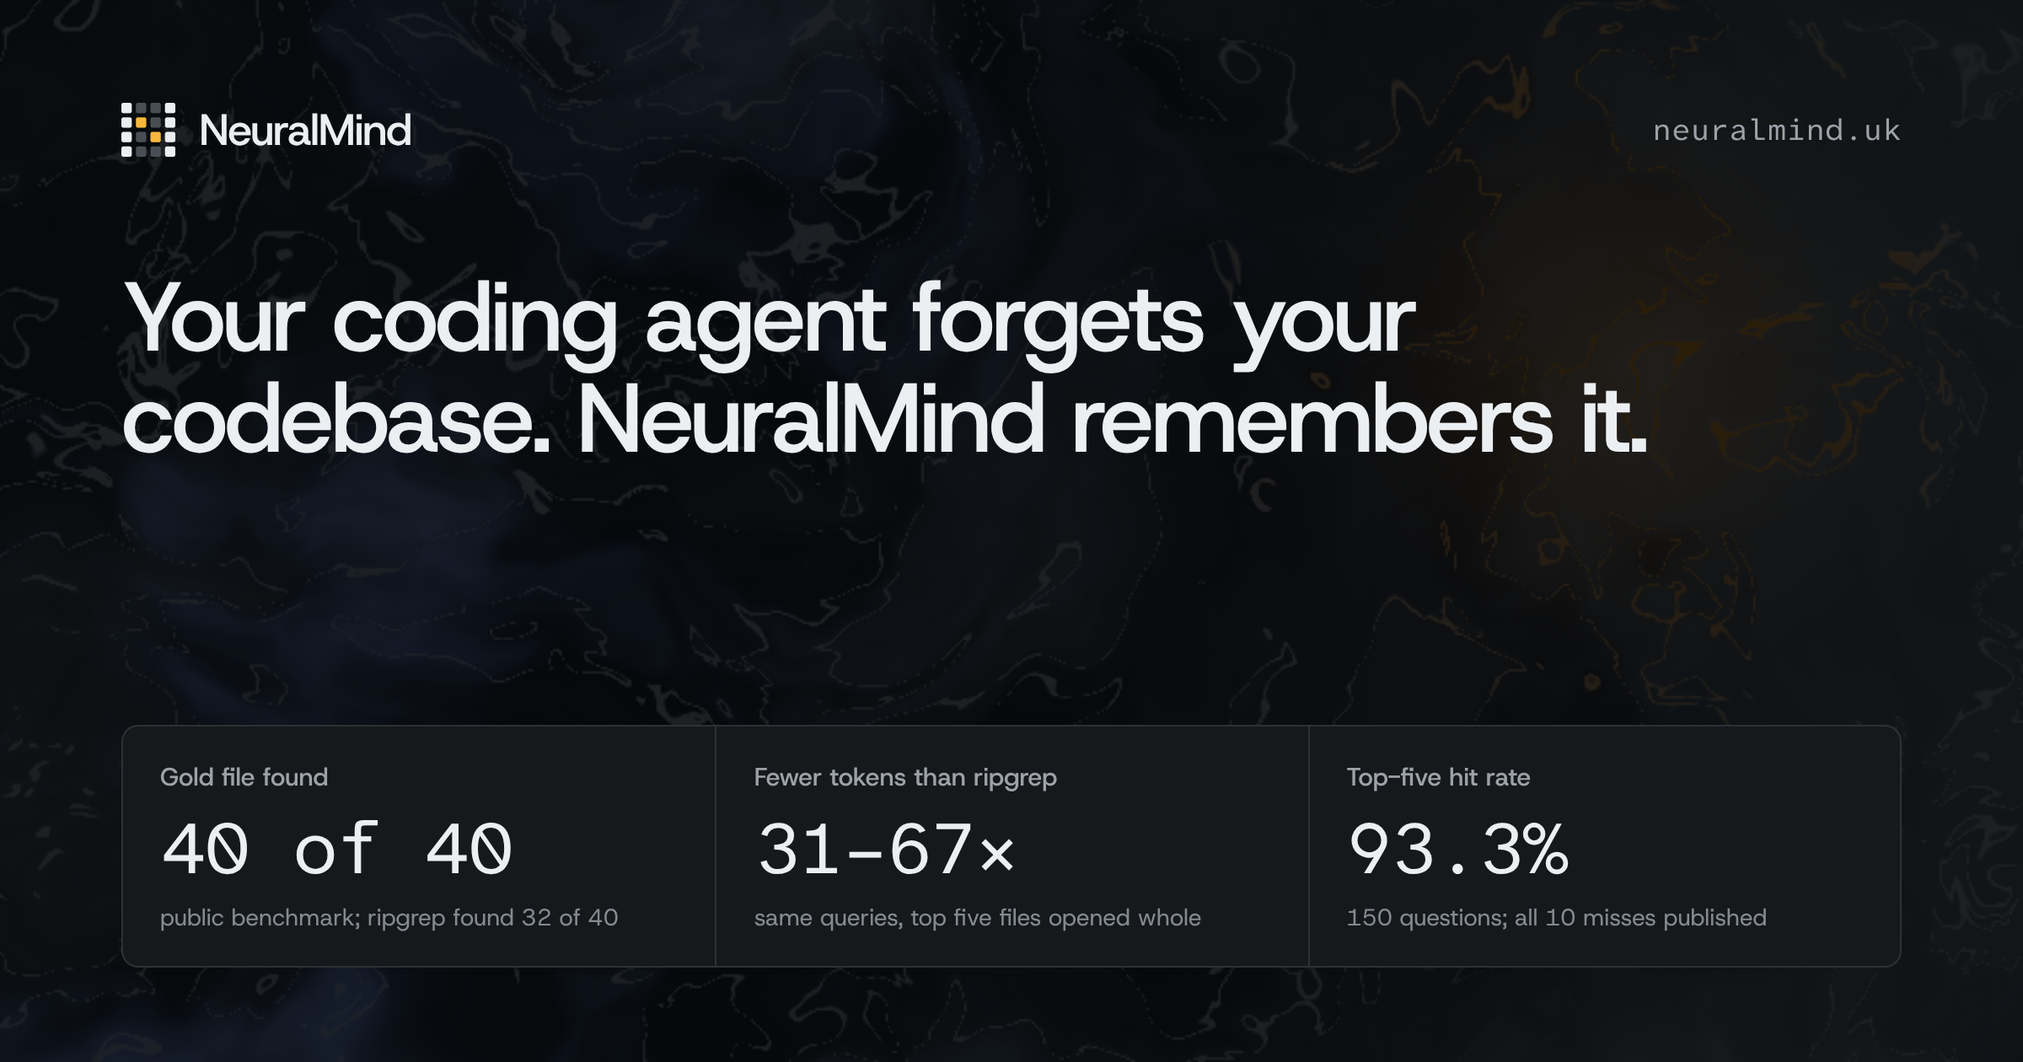
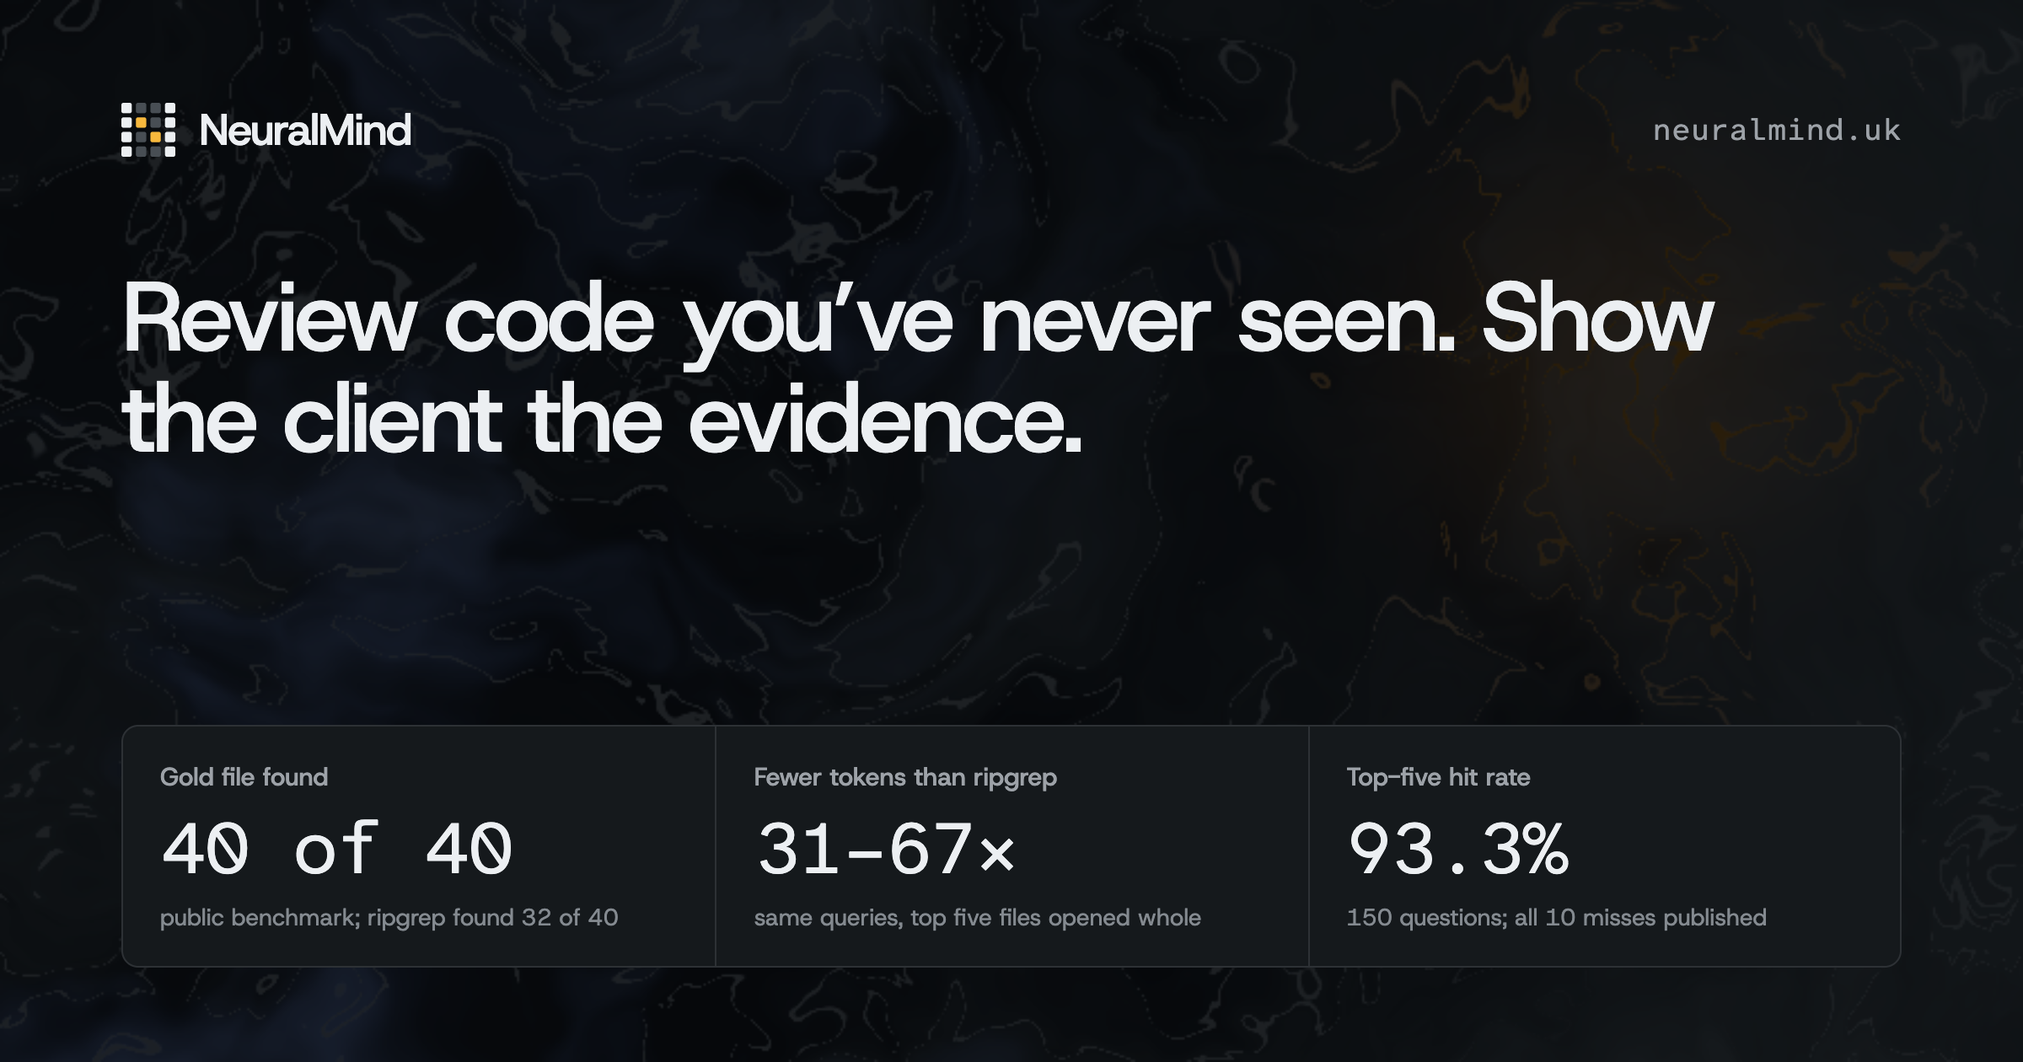
docs(site): lead with what is measured, not memory or MCP reach (#773)
* docs(site): lead with what is measured, not memory or MCP reach

The homepage headline, social card, JSON-LD, footer, /team metadata and two
publication titles still sold persistent learned memory, a cost saving and MCP
reach across agents. The task-outcome and memory-track runs do not support
those, and the brief of 2026-11-01 retires them.

- layout.tsx: title, social title, description, keywords, JSON-LD description,
  feature list and image alt now say what the benchmark shows; the structured
  data states that agents have not been shown to finish more tasks or spend less
- Hero: headline is the measured claim; the primary button is "Measure your own
  repo"; the install steps end with `neuralmind benchmark .` and use the hook,
  not the MCP server; the closing line says the prompt hook reaches Claude Code
  and Hermes and that agents did not call the MCP tools
- Footer blurb: same
- /team: title, description and keywords no longer sell shared memory
- publications/codex-setup and claude-teams-deep-dive: titles, descriptions,
  JSON-LD headlines and H1 say token measurement, not savings or amnesia

Bodies of those two pages, the FAQ, Features, How it works, Proof and the
research pages are not touched here.

* docs(site): social card without the memory headline; JSON-LD scope fixes

Review on #773:
- The OG image still headlined "Your coding agent forgets your codebase.
  NeuralMind remembers it." card.html now carries the shipped headline,
[…]

diff --git a/site/src/app/layout.tsx b/site/src/app/layout.tsx
@@ -11,21 +11,16 @@ export const metadata = {
     title: 'NeuralMind — Review Code You’ve Never Seen, with Your Agent',
     description: SITE_DESCRIPTION,
     keywords: [
-        'Claude Code memory',
-        'AI coding agent memory',
-        'codebase memory',
-        'persistent memory for AI agents',
+        'local code index for AI coding agents',
+        'code intelligence for AI agents',
+        'Claude Code',
+        'Hermes agent',
         'MCP server',
-        'MCP memory server',
-        'reduce Claude Code token usage',
+        'measure Claude Code token usage',
         'context engineering',
-        'token reduction',
+        'fewer tokens per question',
         'semantic code search',
         'code knowledge graph',
-        'Cursor',
-        'Codex',
-        'Cline',
-        'team memory for AI agents',
         'local-first',
     ],
     authors: [{ name: 'Darren Frost', url: 'https://github.com/dfrostar' }],
@@ -48,7 +43,7 @@ export const metadata = {
                 url: '/social-preview.png',
                 width: 2400,
                 height: 1260,
-                alt: 'NeuralMind — Code Memory for AI Coding Agents',
+                alt: 'NeuralMind — a local code index for AI coding agents',
             },
         ],
     },
@@ -93,10 +88,10 @@ const buildJsonLd = (softwareVersion: string, dateModified: string) => ({
             '@id': 'https://neuralmind.uk/#software',
             name: 'NeuralMind',
             applicationCategory: 'DeveloperApplication',
-            applicationSubCategory: 'AI coding agent memory & code intelligence',
+            applicationSubCategory: 'Code intelligence for AI coding agents',
             operatingSystem: 'Linux, macOS, Windows',
             description:
-                'Local-first persistent memory for AI coding agents. NeuralMind indexes a codebase into a code graph, learns which files belong together from how you work (a Hebbian synapse layer), and serves compact, ranked context to Claude Code, Codex, Cursor, Cline, Continue or any MCP client — the gold file on 40 of 40 public-benchmark queries vs keyword ripgrep’s 32 of 40 (top five files opened whole), at 31–67× fewer tokens, and 51–242× fewer than pasting every source file; 93.3% top-5 on a 150-question eval, with its 10 misses published.',
+                'A local code index for AI coding agents. NeuralMind indexes a codebase into a code graph and assembles compact, ranked context from it, delivered to Claude Code and Hermes through a prompt hook and to any MCP client through a server — the gold file on 40 of 40 public-benchmark queries vs keyword ripgrep’s 32 of 40 (top five files opened whole), at 31–67× fewer tokens, and 51–242× fewer than pasting every source file; 93.3% top-5 on a 150-question eval, with its 10 misses published. It has not been shown to make agents finish more tasks or spend less, and every run that tested that is published.',
             url: 'https://neuralmind.uk',
             downloadUrl: 'https://pypi.org/project/neuralmind/',
             installUrl: 'https://pypi.org/project/neuralmind/',
@@ -111,14 +106,14 @@ const buildJsonLd = (softwareVersion: string, dateModified: string) => ({
             operatingSystemRequirements: 'Python 3.10+',
             codeRepository: 'https://github.com/dfrostar/neuralmind',
             keywords:
-                'AI coding agent memory, Claude Code memory, MCP server, codebase memory, context engineering, token reduction, code knowledge graph, Hebbian synapses, progressive context disclosure',
+                'local code index, code intelligence for AI agents, Claude Code, Hermes agent, MCP server, context engineering, code knowledge graph, progressive context disclosure',
             featureList: [
                 'The gold file on 40 of 40 pre-registered queries on four public repos vs keyword ripgrep’s 32 of 40 (top five files opened whole), at 31–67× fewer tokens, and 51–242× fewer than pasting every source file; 93.3% top-5 on a 150-question eval, misses published',
-                'Hebbian synapse layer that learns which files go together from how you use the codebase — budget-neutral recall',
+                'Synapse layer that records which files are used together and re-ranks recall; an exploratory Hermes run that carried that state from task to task found no statistically significant gain in tasks solved',
                 'Progressive L0–L3 context disclosure with a hard per-query token budget',
-                'MCP server for Claude Code, Codex, Cursor, Cline, Continue and any MCP-compatible agent',
-                'Claude Code lifecycle hooks: session-start memory, prompt-time recall, stale-decision guard',
-                'Team memory that travels with git clone, with a quality review queue for imports and a hash-chained audit log',
+                'MCP server for MCP-compatible clients; agents did not call its tools in our task-outcome runs',
+                'Prompt hook for Claude Code and Hermes: session-start context and prompt-time recall; in Claude Code, a stale-decision guard before each edit',
+                'Committed team bundle of recorded file associations that travels with git, with a review queue for imports and a hash-chained audit log',
                 'Bundled tree-sitter code graph indexing ten languages plus JavaScript (parsed with the TypeScript grammars)',
                 'ChromaDB-free TurboVec retrieval: 4-bit quantized index, 8–16× smaller vectors, parity gated in CI',
                 'Commit-time drift guard, decision memory and stale-decision guard',

diff --git a/site/src/app/publications/claude-teams-deep-dive/page.tsx b/site/src/app/publications/claude-teams-deep-dive/page.tsx
@@ -7,13 +7,12 @@ const POST_COMMIT = '3fe5a61';
 const SOURCE_COMMIT = '3f654b5d';
 
 export const metadata = {
-    title: 'Claude Code Team Memory & Token Savings — NeuralMind',
-    description: 'Claude Code team memory with NeuralMind: setup, committed memory bundles that prevent agent amnesia, and token measurement at every layer. Verified in code.',
+    title: 'Claude Code Teams: Setup & Token Measurement — NeuralMind',
+    description: 'NeuralMind with Claude Code teams: setup, committed team bundles of recorded file associations, and token measurement at every layer. Verified in code.',
     keywords: [
-        'Claude Code team memory',
+        'Claude Code teams',
         'token reduction',
-        'agent amnesia',
-        'team memory bundle',
+        'team bundle',
         'NeuralMind Claude',
         'MCP server',
         'Claude Code hooks',
@@ -29,8 +28,8 @@ export const metadata = {
         canonical: '/publications/claude-teams-deep-dive',
     },
     openGraph: {
-        title: 'NeuralMind + Claude Teams: Procedures, Token Measurement, and Amnesia Prevention',
-        description: 'Deep-dive research report verified against the live codebase. How to use NeuralMind with Claude Code teams, measure token reduction, and eliminate agent amnesia.',
+        title: 'NeuralMind + Claude Teams: Procedures and Token Measurement',
+        description: 'Deep-dive research report verified against the live codebase. How to use NeuralMind with Claude Code teams, and measure token reduction.',
         url: 'https://neuralmind.uk/publications/claude-teams-deep-dive',
         siteName: 'NeuralMind',
         locale: 'en_US',
@@ -38,7 +37,7 @@ export const metadata = {
         publishedTime: '2026-07-26',
         modifiedTime: '2026-07-26',
         authors: ['Darren Frost'],
-        tags: ['Claude Code', 'team memory', 'token reduction', 'agent amnesia', 'NeuralMind'],
+        tags: ['Claude Code', 'team bundle', 'token reduction', 'NeuralMind'],
         images: [
             {
                 url: '/social-preview.png',
@@ -50,7 +49,7 @@ export const metadata = {
     },
     twitter: {
         card: 'summary_large_image',
-        title: 'NeuralMind + Claude Teams: Procedures, Token Measurement, and Amnesia Prevention',
+        title: 'NeuralMind + Claude Teams: Procedures and Token Measurement',
         description: 'Deep-dive research report verified against the live codebase.',
         images: ['https://neuralmind.uk/social-preview.png'],
     },
@@ -73,8 +72,8 @@ export default function PublicationPage() {
                         __html: JSON.stringify({
                             '@context': 'https://schema.org',
                             '@type': 'Article',
-                            headline: 'NeuralMind + Claude Teams: Procedures, Token Measurement, and Amnesia Prevention',
-                            description: 'Deep-dive research report: how to use NeuralMind with Claude Code teams, measure token reduction, and eliminate agent amnesia via committed team memory bundles.',
+                            headline: 'NeuralMind + Claude Teams: Procedures and Token Measurement',
+                            description: 'Deep-dive research report: how to use NeuralMind with Claude Code teams, and measure token reduction with committed team bundles.',
                             author: {
                                 '@type': 'Person',
                                 name: 'Darren Frost',
@@ -91,7 +90,7 @@ export default function PublicationPage() {
                                 '@type': 'WebPage',
                                 '@id': 'https://neuralmind.uk/publications/claude-teams-deep-dive',
                             },
-                            keywords: ['Claude Code', 'team memory', 'token reduction', 'agent amnesia', 'NeuralMind'],
+                            keywords: ['Claude Code', 'team bundle', 'token reduction', 'NeuralMind'],
                             about: {
                                 '@type': 'SoftwareApplication',
                                 name: 'NeuralMind',
@@ -111,7 +110,7 @@ export default function PublicationPage() {
                         NeuralMind + Claude Teams
                     </h1>
                     <p className="text-lg text-body mb-2">
-                        Procedures, Token Measurement, and Amnesia Prevention
+                        Procedures and Token Measurement
                     </p>
                     <p className="text-muted text-sm mb-4">
                         Verified against the live codebase. DeepSeek v4 Pro QA-corrected.

diff --git a/site/src/components/sections/Hero.tsx b/site/src/components/sections/Hero.tsx
@@ -4,14 +4,12 @@ import Stat, { StatGrid } from '@/components/ui/Stat';
 import { QUERY_ID, QUERY_REPO, QUERY_TEXT } from '@/lib/capturedQuery';
 import { headline, publicBenchmark, publicQuery, ratioRange, retrievalEval } from '@/lib/evidence';
 
-const AGENTS = ['Claude Code', 'Codex', 'Cursor', 'Cline', 'Hermes'];
-
 // The commands a reader runs to try it, verified against neuralmind/cli.py:
-// install, index, register the MCP server with Claude Code (`--client` picks
-// Cursor, Cline, VS Code or Claude Desktop instead), and install Claude Code's
-// hooks. In the task-outcome pilot the agent never called the MCP tools; the
-// hooks were how NeuralMind reached it, so they are part of the install.
-const INSTALL = ['pip install neuralmind', 'neuralmind build .', 'neuralmind install-mcp', 'neuralmind install-hooks .'];
+// install, index, install Claude Code's hooks, then measure on their own repo.
+// In every task-outcome run the agent never called the MCP tools (0 of 135
+// Claude Code runs); the hooks are how NeuralMind reaches it, so they are the
+// install. `neuralmind install-mcp` (with `--client`) is in the quickstart.
+const INSTALL = ['pip install neuralmind', 'neuralmind build .', 'neuralmind install-hooks .', 'neuralmind benchmark .'];
 
 export default function Hero() {
     // Every figure below is read from the committed runs through lib/evidence,
@@ -42,10 +40,11 @@ export default function Hero() {
                             eval it puts a gold file in the top five on 93.3%, and all 10 misses are
                             published. By default no telemetry and no repository content off your
                             machine, with signed releases and compliance evidence a client&rsquo;s security
-                            review can check. MIT core, free at one seat.
+                            review can check. It has not been shown to finish more tasks, and every run
+                            that tested that is published. MIT core, free at one seat.
                         </p>
 
-                        <ol className="space-y-2 mb-8 max-w-md" aria-label="Install in four commands">
+                        <ol className="space-y-2 mb-8 max-w-md" aria-label="Install and measure in four commands">
                             {INSTALL.map((cmd, i) => (
                                 <li key={cmd} className="flex items-center gap-3">
                                     <span className="w-6 shrink-0 font-mono text-xs text-faint tabular-nums">
@@ -57,8 +56,8 @@ export default function Hero() {
                         </ol>
 
                         <div className="flex flex-wrap items-center gap-3">
-                            <a href="/team" className="btn-primary py-3">
-                                For teams
+                            <a href="/measure-your-own" className="btn-primary py-3">
+                                Measure your own repo
                             </a>
                             <a href="#quickstart" className="btn-secondary py-3">
                                 Quickstart
@@ -69,8 +68,8 @@ export default function Hero() {
                         </div>
 
                         <p className="mt-6 text-faint text-sm">
-                            Persistent codebase memory and an MCP server. Works with {AGENTS.join(', ')} and
-                            any MCP client.
+                            A prompt hook reaches Claude Code and Hermes. An MCP server is there for other
+                            clients; agents did not call its tools in our task-outcome runs.
                         </p>
                     </div>
 

diff --git a/site/src/app/publications/codex-setup/page.tsx b/site/src/app/publications/codex-setup/page.tsx
@@ -5,8 +5,8 @@ const GITHUB_URL = 'https://github.com/dfrostar/neuralmind';
 const POST_COMMIT = '3fe5a61';
 
 export const metadata = {
-    title: 'NeuralMind + OpenAI Codex: MCP Setup & Token Savings Guide',
-    description: 'Set up NeuralMind as an MCP server for OpenAI Codex: install it, register with any MCP client, measure L0–L3 token budgets and check your real dollar savings.',
+    title: 'NeuralMind + OpenAI Codex: MCP Setup & Token Measurement',
+    description: 'Set up NeuralMind as an MCP server for OpenAI Codex: install it, register with any MCP client, and measure L0–L3 token budgets on your own repo.',
     keywords: [
         'OpenAI Codex',
         'Codex CLI',
@@ -27,8 +27,8 @@ export const metadata = {
         canonical: '/publications/codex-setup',
     },
     openGraph: {
-        title: 'How to Use NeuralMind with OpenAI Codex — Setup, Token Measurement, Savings',
-        description: 'Step-by-step guide verified against the live codebase: install NeuralMind, register the MCP server with Codex, measure token budgets, and verify dollar savings.',
+        title: 'How to Use NeuralMind with OpenAI Codex — Setup and Token Measurement',
+        description: 'Step-by-step guide verified against the live codebase: install NeuralMind, register the MCP server with Codex, and measure token budgets.',
         url: 'https://neuralmind.uk/publications/codex-setup',
         siteName: 'NeuralMind',
         locale: 'en_US',
@@ -48,7 +48,7 @@ export const metadata = {
     },
     twitter: {
         card: 'summary_large_image',
-        title: 'How to Use NeuralMind with OpenAI Codex — Setup, Token Measurement, Savings',
+        title: 'How to Use NeuralMind with OpenAI Codex — Setup and Token Measurement',
         description: 'Step-by-step guide verified against the live codebase.',
         images: ['https://neuralmind.uk/social-preview.png'],
     },
@@ -73,8 +73,8 @@ export default function PublicationPage() {
                         __html: JSON.stringify({
                             '@context': 'https://schema.org',
                             '@type': 'Article',
-                            headline: 'How to Use NeuralMind with OpenAI Codex: Setup, Token Measurement, and Savings',
-                            description: 'Step-by-step guide: install NeuralMind, register the MCP server with Codex (any MCP client), measure L0-L3 token budgets, run the self-improvement loop, and verify real dollar savings.',
+                            headline: 'How to Use NeuralMind with OpenAI Codex: Setup and Token Measurement',
+                            description: 'Step-by-step guide: install NeuralMind, register the MCP server with Codex (any MCP client), measure L0-L3 token budgets, and run the self-improvement loop.',
                             author: {
                                 '@type': 'Person',
                                 name: 'Darren Frost',
@@ -111,7 +111,7 @@ export default function PublicationPage() {
                         How to Use NeuralMind with OpenAI Codex
                     </h1>
                     <p className="text-lg text-body mb-2">
-                        Setup, Token Measurement, and Savings
+                        Setup and Token Measurement
                     </p>
                     <p className="text-muted text-sm mb-4">
                         Verified against the live codebase. DeepSeek v4 Pro QA-corrected.

diff --git a/site/src/app/team/page.tsx b/site/src/app/team/page.tsx
@@ -6,17 +6,15 @@ import { pageMetadata } from '@/lib/seo';
 
 export const metadata: Metadata = pageMetadata({
     path: '/team',
-    title: 'Team Memory for AI Coding Agents — NeuralMind for Teams',
+    title: 'NeuralMind for Teams — Seats, Audit Log, Self-Hosted',
     description:
-        'Shared codebase memory for Claude Code and MCP agents: it travels with git, follows your admin’s policy, and every change is hash-chain audited. Free at 1 seat.',
+        'For teams of 5–50 seats: a committed team bundle that travels with git, follows your admin’s policy, and a hash-chained audit log. Free at 1 seat.',
     keywords: [
-        'team memory for AI coding agents',
-        'shared Claude Code memory',
+        'NeuralMind for teams',
         'Claude Code for teams',
         'AI agent governance',
         'hash-chained audit log',
         'self-hosted AI coding tools',
-        'MCP server for teams',
     ],
 });
 

diff --git a/site/src/components/sections/Footer.tsx b/site/src/components/sections/Footer.tsx
@@ -55,8 +55,9 @@ export default function Footer() {
                             </span>
                         </Link>
                         <p className="text-faint text-sm leading-relaxed max-w-xs">
-                            Persistent codebase memory for AI coding agents — Claude Code, Codex,
-                            Cursor and any MCP client. Local-first, no telemetry.
+                            A local code index for AI coding agents. A prompt hook reaches Claude
+                            Code and Hermes; an MCP server is there for other clients. Local-first,
+                            no telemetry.
                         </p>
                     </div>
 

diff --git a/scripts/og-card/card.html b/scripts/og-card/card.html
@@ -82,7 +82,7 @@
     <div class="site">neuralmind.uk</div>
   </div>
 
-  <h1>Your coding agent forgets your codebase. NeuralMind remembers it.</h1>
+  <h1>Review code you’ve never seen. Show the client the evidence.</h1>
 
   <div class="readings">
     <div>
